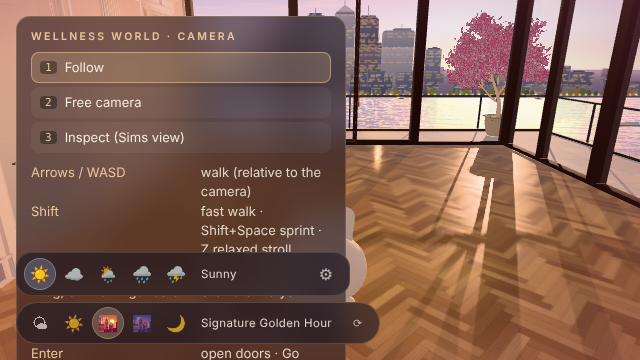
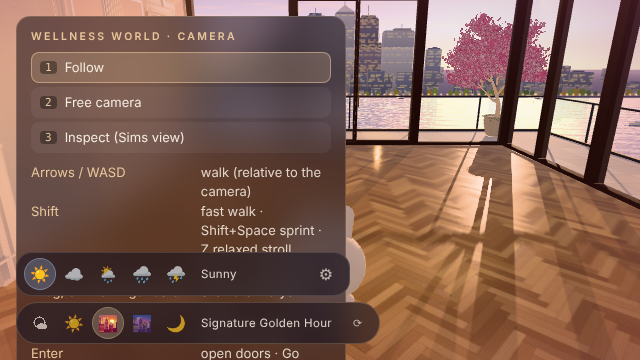
Ground-floor lobby rebuild pass 1 (layout, ceiling, slats, reception, chandelier)
Claude-Session: https://claude.ai/code/session_017ZtboRbFUCo4FCo9fUW3pH

diff --git a/src/street/plan.js b/src/street/plan.js
@@ -117,16 +117,26 @@ export function buildStreet() {
     ch.box(FL, -hw, hw, H + 0.55, H + 0.6, -10, 0.3, col(PAL.slate), 'roof', 'u')
     // ---- the lobby interior (FP: lz 0 = the tower wall at z = 4; the lobby is lx -7..7, lz 0.9..9.55; ceiling 4.9)
     const iw = 7
-    ch.box(FP, -iw, iw, -0.01, 0.04, 0.9, 9.6, col('#e4d8be'), 'slab', 'u', 1.8, 1.2)                                                      // travertine floor
-    ch.box(FP, -iw + 0.5, iw - 0.5, 0.04, 0.05, 1.5, 9.1, col('#d1c3a6'), 'slab', 'u', 1.8, 1.2, 0)                                       // inlaid border
-    ch.box(FP, -1.4, 1.4, 0.05, 0.06, 4.9, 9.55, col('#bba980'), 'trim', 'u', 1, 1, 0)                                                      // entrance runner
-    ch.box(FP, -iw, iw, 4.9, 5.2, 0.9, 9.6, col('#efe6d3'), 'trim', 'fd', 1, 1, 0)                                                          // ceiling
-    for (const s of [-1, 1]) { ch.box(FP, s * 5.6 - 0.15, s * 5.6 + 0.15, 4.84, 4.9, 1.2, 9.4, col('#ffe0b0'), 'glow', 'd', 1, 1, 0); ch.box(FP, Math.min(s * 7.0, s * 7.2), Math.max(s * 7.0, s * 7.2), 0, 4.9, 0.9, 9.6, col('#e2d6bd'), 'ashlar', 'fulrb', 2.4, 1.2); ch.solid(FP, Math.min(s * 7.0, s * 7.2), Math.max(s * 7.0, s * 7.2), 0, 4.9, 0.9, 9.6, 'lobbywall') }
+    ch.box(FP, -iw, iw, -0.01, 0.04, 0.9, 9.6, col('#f0dfca'), 'trim', 'u', 2.8, 2.8)                                                      // pale veined marble floor (large slabs)
+    ch.box(FP, -iw + 0.6, iw - 0.6, 0.04, 0.046, 1.5, 9.0, col('#e6d2bc'), 'trim', 'u', 2.8, 2.8, 0)                                      // inlaid border
+    for (const [x0, x1, z0, z1] of [[-iw + 0.6, iw - 0.6, 1.5, 1.54], [-iw + 0.6, iw - 0.6, 8.96, 9.0], [-iw + 0.6, -iw + 0.64, 1.5, 9.0], [iw - 0.64, iw - 0.6, 1.5, 9.0]]) ch.box(FP, x0, x1, 0.046, 0.052, z0, z1, brass, 'metal', 'u', 1, 1, 0)   // brass inlay line
+    ch.box(FP, -iw, iw, 4.9, 5.2, 0.9, 9.6, col('#efe4d6'), 'trim', 'fd', 1, 1, 0)                                                          // ceiling
+    for (const [x0, x1, z0, z1] of [[-iw, -iw + 0.9, 0.9, 9.6], [iw - 0.9, iw, 0.9, 9.6], [-iw + 0.9, iw - 0.9, 0.9, 1.7], [-iw + 0.9, iw - 0.9, 8.7, 9.6]]) ch.box(FP, x0, x1, 4.55, 4.9, z0, z1, col('#efe4d6'), 'trim', 'fd', 1, 1, 0)   // recessed ceiling soffit
+    for (const [x0, x1, z0, z1] of [[-iw + 0.9, -iw + 0.96, 1.7, 8.7], [iw - 0.96, iw - 0.9, 1.7, 8.7], [-iw + 0.96, iw - 0.96, 1.7, 1.76], [-iw + 0.96, iw - 0.96, 8.64, 8.7]]) ch.box(FP, x0, x1, 4.5, 4.55, z0, z1, col('#ffd9b0'), 'glow', 'd', 1, 1, 0)   // warm cove light
+    for (const x of [-4.2, -1.9, 1.9, 4.2]) for (const z of [2.6, 5.0, 7.4]) ch.prism(FP, x, z, 0.11, 0.11, 4.86, 4.9, col('#ffe6c4'), 'glow', 12)   // recessed downlights
+    for (const [x0, x1, z0, z1] of [[-iw, iw, 0.9, 0.96], [-iw, -iw + 0.06, 0.9, 9.6], [iw - 0.06, iw, 0.9, 9.6]]) ch.box(FP, x0, x1, 0, 0.16, z0, z1, col('#f1e8dc'), 'trim', 'fulrb', 1, 1, 0)   // skirting
+    for (const s of [-1, 1]) { ch.box(FP, s * 5.6 - 0.15, s * 5.6 + 0.15, 4.84, 4.9, 1.2, 9.4, col('#ffe0b0'), 'glow', 'd', 1, 1, 0); ch.box(FP, Math.min(s * 7.0, s * 7.2), Math.max(s * 7.0, s * 7.2), 0, 4.9, 0.9, 9.6, col('#dcc3b1'), 'trim', 'fulrb', 8, 8); ch.solid(FP, Math.min(s * 7.0, s * 7.2), Math.max(s * 7.0, s * 7.2), 0, 4.9, 0.9, 9.6, 'lobbywall') }
     ch.box(FP, -iw - 0.1, iw + 0.1, 4.9, 5.0, 0.9, 9.6, col('#e9dfca'), 'trim', 'fulrbd', 1, 1, 0)
     // back wall: limestone with the lift recess, flanked by walnut panelling
     const FB = frame(BX, 4.9, 0, GY)
-    rowWall(ch, FB, -iw, iw, 0, 4.9, [{ x0: -0.95, x1: 0.95, sill: 0, head: 2.6 }], 0.9, col('#ddd1b8'), 'ashlar', 2.4, 1.2)
-    for (const s of [-1, 1]) for (let i = 0; i < 4; i++) { const x0 = s * (1.45 + i * 1.05); ch.box(FB, Math.min(x0, x0 + s * 0.95), Math.max(x0, x0 + s * 0.95), 0.1, 3.6, 0.0, 0.07, walnut.clone().multiplyScalar(0.92 + 0.08 * (i % 2)), 'wood', 'fu', 1, 1, 0) }
+    rowWall(ch, FB, -iw, iw, 0, 4.9, [{ x0: -0.95, x1: 0.95, sill: 0, head: 2.6 }], 0.9, col('#dcc3b1'), 'trim', 8, 8)
+    for (const sd of [-1, 1]) {
+      ch.box(FB, Math.min(sd * 1.55, sd * 5.8), Math.max(sd * 1.55, sd * 5.8), 0.1, 3.6, 0.0, 0.03, col('#c9ad92'), 'wood', 'f', 1, 1, 0)           // slat backing
+      for (let k = 0; k < 22; k++) { const x0 = sd * (1.6 + k * 0.19); ch.box(FB, Math.min(x0, x0 + sd * 0.12), Math.max(x0, x0 + sd * 0.12), 0.1, 3.6, 0.03, 0.09, col('#a9835f').multiplyScalar(0.92 + 0.07 * (k % 3)), 'wood', 'flr', 1, 1, 0.02) }
+      ch.box(FB, Math.min(sd * 1.1, sd * 1.5), Math.max(sd * 1.1, sd * 1.5), 0, 3.5, -0.02, 0.1, col('#33281f'), 'slab', 'fulr', 1.2, 1.2, 0)         // dark veined marble pilaster
+      ch.box(FB, Math.min(sd * 5.8, sd * 5.86), Math.max(sd * 5.8, sd * 5.86), 0.1, 3.6, 0.0, 0.12, col('#ffd9b0'), 'glow', 'f', 1, 1, 0)             // slat uplight edge
+    }
+    ch.box(FB, -1.5, 1.5, 2.72, 3.5, -0.02, 0.1, col('#33281f'), 'slab', 'fulr', 1.2, 1.2, 0)
     ch.box(FB, -0.95, 0.95, 0, 0.01, -0.9, 0, col('#cdbf9f'), 'trim', 'u')
     ch.acc('glow').quad(...[[-0.9, 0.04, -0.82], [0.9, 0.04, -0.82], [0.9, 2.55, -0.82], [-0.9, 2.55, -0.82]].map(([x, y, z]) => [FB.x + x, FB.y + y, FB.z + z]), col('#ffdca8'), [0, 0, 1], [[0, 0], [1, 0], [1, 1], [0, 1]])
     for (const s of [-1, 1]) ch.box(FB, s * 1.0 - 0.05, s * 1.0 + 0.05, 0, 2.7, -0.1, 0.06, bronze, 'metal+', 'fulr')
@@ -151,24 +161,33 @@ export function buildStreet() {
       ch.box(FA, -wx / 2, wx / 2, y, y + h, 0.04, 0.07, c1, 'trim', 'f', 1, 1, 0); ch.box(FA, -wx / 2 + 0.2, wx / 2 - 0.2, y + h * 0.18, y + h * 0.55, 0.07, 0.08, c2, 'trim', 'f', 1, 1, 0)
     }
     art(0, 3.3, 1.1, 1.4, 1.5, col('#bfb39b'), col('#8a6a78'), -1); art(0, 5.3, 1.1, 1.4, 1.5, col('#a9b39a'), col('#cbb78d'), -1); art(0, 7.3, 1.1, 1.4, 1.5, col('#d9cdb8'), col('#cf8f9c'), -1); art(0, 6.0, 2.3, 1.5, 1.4, col('#cbb9a0'), col('#a45f47'), 1)
-    // concierge desk (walnut, stone top) on the east side; seating group on the west
-    ch.box(FP, 2.6, 5.9, 0.04, 1.05, 2.9, 3.7, walnut, 'wood', 'fulrb', 1, 1, 0.05); ch.box(FP, 2.5, 6.0, 1.05, 1.12, 2.8, 3.8, col('#e7dfcf'), 'ashlar', 'fulrbd', 2.4, 1.2); ch.solid(FP, 2.5, 6.0, 0, 1.12, 2.8, 3.8, 'desk')
-    ch.box(FP, 3.2, 5.2, 1.12, 1.18, 3.1, 3.5, col('#2f2a26'), 'trim', 'u', 1, 1, 0); ch.box(FP, 4.0, 4.04, 1.12, 1.55, 3.2, 3.24, brass, 'metal', 'fulrb', 1, 1, 0); ch.box(FP, 3.85, 4.2, 1.55, 1.58, 3.1, 3.4, col('#ffe0b0'), 'glow', 'fu', 1, 1, 0)   // blotter + desk lamp
-    ch.box(FP, 5.6, 6.0, 0.04, 1.9, 1.0, 2.2, walnut.clone().multiplyScalar(0.9), 'wood', 'fulrb', 1, 1, 0.05)                                  // key cabinet
-    const sofa = col('#bdad96'), sofaDk = col('#a18f7b')
-    ch.box(FP, -6.2, -3.4, 0.04, 0.44, 5.6, 7.4, sofa, 'awning', 'fulrb', 1, 1, 0); ch.box(FP, -6.2, -5.7, 0.44, 0.95, 5.6, 7.4, sofaDk, 'awning', 'fulrb', 1, 1, 0); ch.solid(FP, -6.2, -3.4, 0, 0.95, 5.6, 7.4, 'sofa')
-    for (const z of [4.4, 8.6]) { ch.box(FP, -5.4, -4.3, 0.04, 0.42, z - 0.5, z + 0.5, sofa, 'awning', 'fulrb', 1, 1, 0); ch.box(FP, -5.4, -5.0, 0.42, 0.85, z - 0.5, z + 0.5, sofaDk, 'awning', 'fulrb', 1, 1, 0); ch.solid(FP, -5.4, -4.3, 0, 0.85, z - 0.5, z + 0.5, 'armchair') }
-    ch.box(FP, -4.1, -2.9, 0.04, 0.05, 4.9, 6.9, col('#cfc2a8'), 'trim', 'u', 1, 1, 0)                                                      // rug
-    put('table', BX - 3.5, 6.0, 0, 1.0, GY); ch.solid(FP, -3.9, -3.1, 0, 0.75, 5.6, 6.4, 'table')
+    // curved fluted reception counter (east), warm stone top, brass plinth, lamp + bouquet
+    {
+      const cc = col('#cdb59c'), fl = col('#bfa58a')
+      ch.box(FP, 3.45, 5.35, 0.08, 1.05, 2.4, 3.5, cc, 'plaster', 'fulrb', 2, 2, 0.01)
+      for (const x of [3.45, 5.35]) ch.prism(FP, x, 2.95, 0.55, 0.55, 0.08, 1.05, cc, 'plaster', 24)
+      for (let k = 0; k < 29; k++) { const x = 2.95 + k * 0.1; const z = x < 3.45 ? 2.95 + Math.sqrt(Math.max(0, 0.3025 - (x - 3.45) ** 2)) : x > 5.35 ? 2.95 + Math.sqrt(Math.max(0, 0.3025 - (x - 5.35) ** 2)) : 3.5; ch.box(FP, x, x + 0.045, 0.1, 1.03, z, z + 0.04, fl, 'plaster', 'f', 1, 1, 0) }
+      ch.box(FP, 3.45, 5.35, 0, 0.08, 2.4, 3.56, brass, 'metal', 'fulrb', 1, 1, 0); for (const x of [3.45, 5.35]) ch.prism(FP, x, 2.95, 0.58, 0.58, 0, 0.08, brass, 'metal', 24)
+      ch.box(FP, 3.45, 5.35, 1.05, 1.12, 2.34, 3.58, col('#efe6da'), 'slab', 'fulrbd', 1.2, 1.2, 0); for (const x of [3.45, 5.35]) ch.prism(FP, x, 2.95, 0.62, 0.62, 1.05, 1.12, col('#efe6da'), 'slab', 24)
+      ch.box(FP, 3.0, 5.8, 0.98, 1.04, 3.5, 3.58, col('#ffd9b0'), 'glow', 'f', 1, 1, 0)
+      ch.solid(FP, 2.85, 5.95, 0, 1.12, 2.35, 3.65, 'desk')
+      ch.prism(FP, 4.0, 3.0, 0.014, 0.014, 1.12, 1.5, brass, 'metal', 6); ch.prism(FP, 4.0, 3.0, 0.16, 0.12, 1.5, 1.7, col('#ffe0b0'), 'glow', 14)
+      ch.prism(FP, 5.0, 3.0, 0.06, 0.06, 1.12, 1.3, col('#e8e0d6'), 'trim', 10); ch.prism(FP, 5.0, 3.0, 0.2, 0.2, 1.3, 1.62, col('#c98f9f'), 'awning', 10)
+    }
+    // upholstered cream barrel chair + brass side table
+    ch.prism(FP, -4.7, 2.7, 0.46, 0.46, 0.05, 0.42, col('#eadfd0'), 'awning', 20); ch.box(FP, -5.2, -4.2, 0.42, 0.95, 2.2, 2.45, col('#eadfd0'), 'awning', 'fulrb', 1, 1, 0.01); ch.prism(FP, -4.7, 2.7, 0.44, 0.44, 0.42, 0.5, col('#cfa7a0'), 'awning', 20)
+    ch.solid(FP, -5.2, -4.2, 0, 0.95, 2.2, 3.2, 'armchair')
+    ch.prism(FP, -3.7, 2.7, 0.22, 0.22, 0.05, 0.56, brass, 'metal', 14); ch.prism(FP, -3.7, 2.7, 0.26, 0.26, 0.56, 0.6, col('#efe6da'), 'slab', 14); ch.prism(FP, -3.7, 2.7, 0.12, 0.1, 0.6, 0.8, col('#c98f9f'), 'awning', 10); ch.solid(FP, -3.95, -3.45, 0, 0.8, 2.45, 2.95, 'table')
+    // deliberately placed rug between lift, counter and door
+    ch.box(FP, -2.6, 2.6, 0.05, 0.062, 3.4, 7.2, col('#c9b6a3'), 'trim', 'u', 1, 1, 0); ch.box(FP, -2.4, 2.4, 0.062, 0.07, 3.6, 7.0, col('#d9c9bc'), 'trim', 'u', 1, 1, 0)
     // sculptural pendant: stacked brass rings on a drop rod, warm glow core
     const FD = frame(BX, 4 + 5.2, 0, GY)
-    ch.prism(FD, 0, 0, 0.012, 0.012, 3.6, 4.9, brass, 'metal', 4)
-    for (let i = 0; i < 5; i++) ch.prism(FD, 0, 0, 0.28 + i * 0.16, 0.28 + i * 0.16, 3.55 - i * 0.14, 3.6 - i * 0.14, brass, 'metal', 20)
-    ch.prism(FD, 0, 0, 0.28, 0.28, 3.0, 3.52, col('#ffe0b0'), 'glow', 12)
+    ch.prism(FD, 0, 0, 0.012, 0.012, 3.0, 4.9, brass, 'metal', 4)
+    for (const [r, y] of [[1.15, 3.85], [0.82, 3.52], [0.5, 3.2]]) { ch.prism(FD, 0, 0, r, r, y, y + 0.05, brass, 'metal', 40); ch.prism(FD, 0, 0, r - 0.05, r - 0.05, y - 0.04, y, col('#ffe0b0'), 'glow', 40) }
     // restrained greenery: two stone planters at the lift wall, a pair of potted trees by the doors
     for (const s of [-1, 1]) { put('planter', BX + s * 5.0, 5.7, 0, 1.0, GY); put('shrub', BX + s * 5.0 + 0.2, 5.7, 0, 1.0, GY + 0.62) }
     for (const s of [-1, 1]) { put('urn', BX + s * 2.7, 8.7, 0, 1.0, GY); put('ornamental', BX + s * 2.7, 8.7, 0, 0.42, GY + 0.9) }
-    lightsAt.push({ x: BX, y: GY + 3.4, z: 4 + 5.2, color: '#ffcf94', intensity: 7, distance: 16 })
+    lightsAt.push({ x: BX, y: GY + 3.4, z: 4 + 5.2, color: '#ffd5a8', intensity: 5, distance: 14 })
     halos.push([BX, GY + 3.2, 4 + 5.2], [BX, GY + 4.0, 14.6])
     // door to the courtyard: a clear 2.9 m opening (no leaves, so the arrival is never blocked)
     pois.lobby = { x: BX, z: 9 }

diff --git a/src/street/Street.jsx b/src/street/Street.jsx
@@ -157,7 +157,7 @@ export function StreetVisuals() {
   }, [built, M, pool])
 
   const liftGeo = useMemo(() => new THREE.BoxGeometry(0.93, 2.55, 0.05), [])
-  const liftMat = useMemo(() => new THREE.MeshStandardMaterial({ color: '#8a6d44', roughness: 0.4, metalness: 0.75 }), [])
+  const liftMat = useMemo(() => new THREE.MeshStandardMaterial({ color: '#c8a468', roughness: 0.32, metalness: 1, envMapIntensity: 1.8 }), [])
   const waterMat = useMemo(() => new THREE.MeshStandardMaterial({ color: '#4d4a63', roughness: 0.06, metalness: 0.15, transparent: true, opacity: 0.88, normalMap, normalScale: new THREE.Vector2(0.5, 0.5), envMapIntensity: 1.6 }), [normalMap])
   const jetRefs = useRef([]), haloMat = useRef()
   const last = useRef(-1)

diff --git a/docs/bible/DEFECTS.md b/docs/bible/DEFECTS.md
@@ -2,3 +2,4 @@
 - D-001 (open, partially tuned: wall and floor darkened, env 0.35) Lift lobby reads brighter/paler than Bible p.17 target (target has darker marble, visible floor reflection, dimmer cove). Lights reduced once; remaining wash comes from golden-hour environment light in the penthouse. Needs Blender/localhost same-angle comparison + tuning.
 - D-002 (open) Lift lobby sign "Lift" is faint; floor marble reflection not visible.
 - Verified: lobby renders (docs/bible/lobby/t1,t2); entrance door opens; lift call → ride down → street; street lift → return to penthouse, lift doors open then auto-close (fastAnim on; SwiftShader is too slow for real-time timing).
+- D-003 (open) Ground-floor lobby (s06) rebuilt in plan.js to Bible p.22 layout: marble-tone floor, recessed cove ceiling + downlights, timber slats + dark stone pilasters around lift, curved fluted reception counter, barrel chair + side table, rug, tiered ring chandelier, brushed-gold lift leaves. STILL: floor reads lilac under sky light (no true reflective marble, no veining texture), plaster has no texture, lift doors lack seam detail/indicator, trees/planters are old low-poly props, no Blender baked kit. Not approved.
